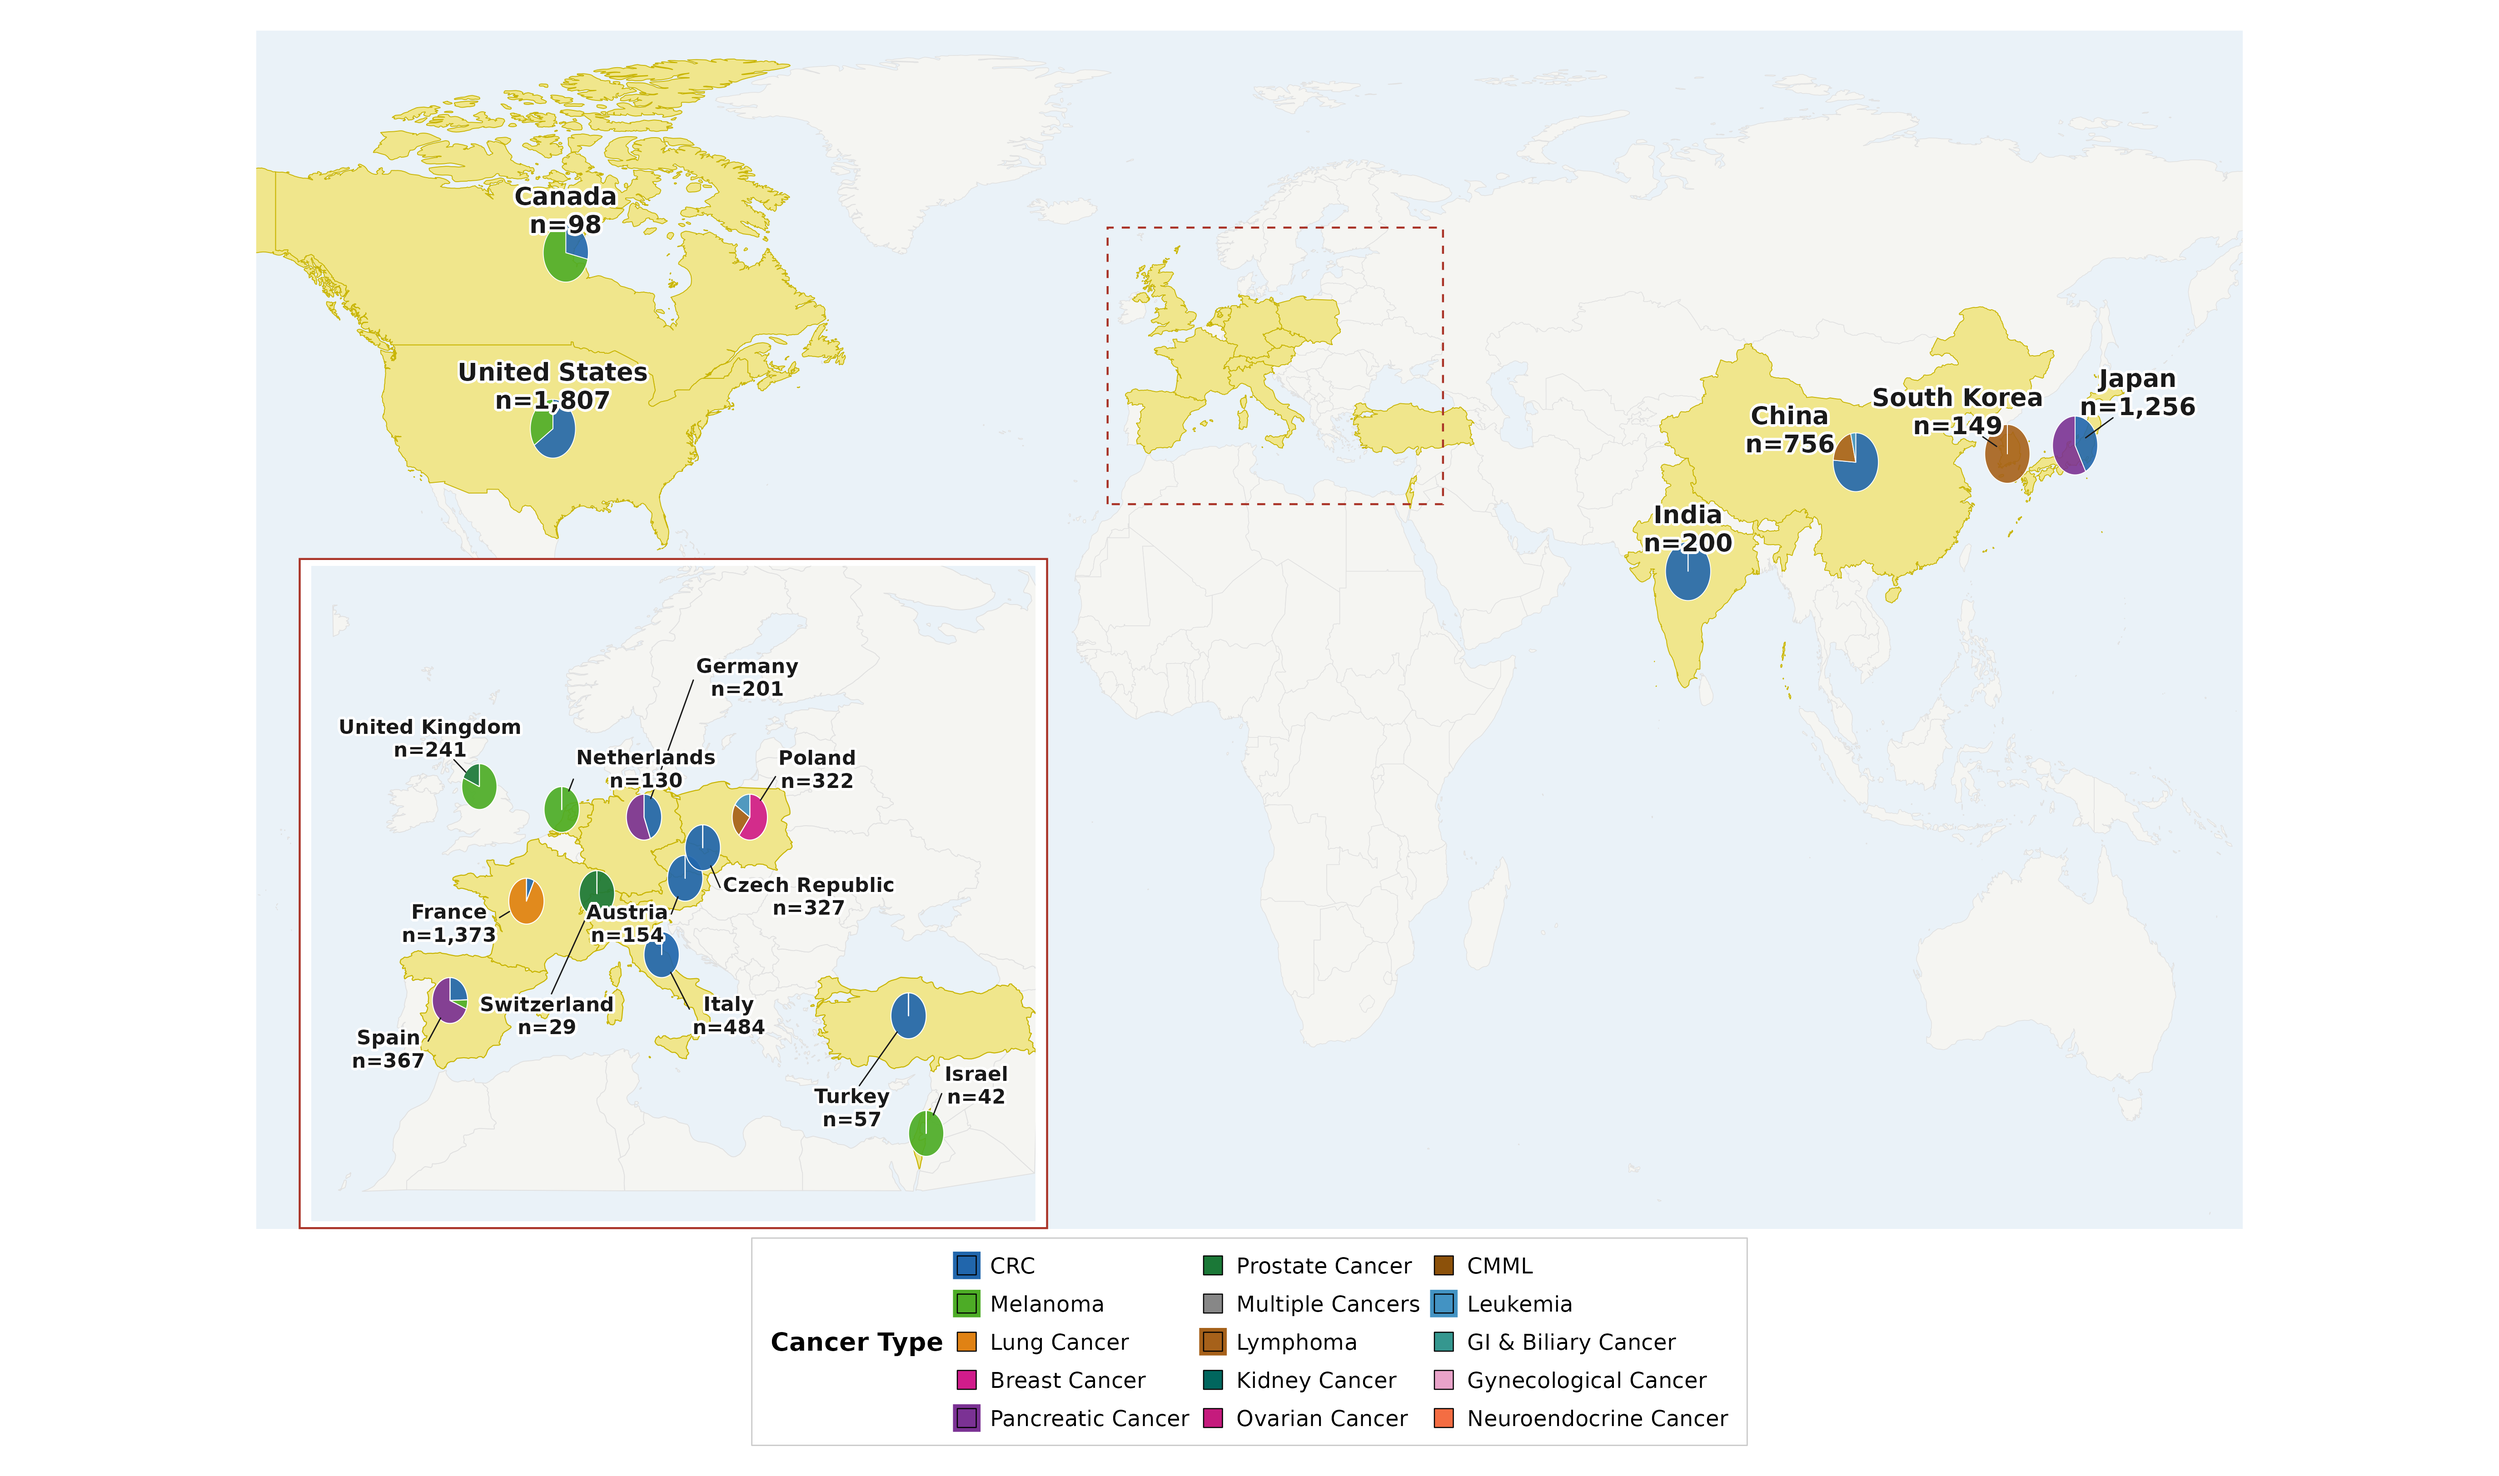
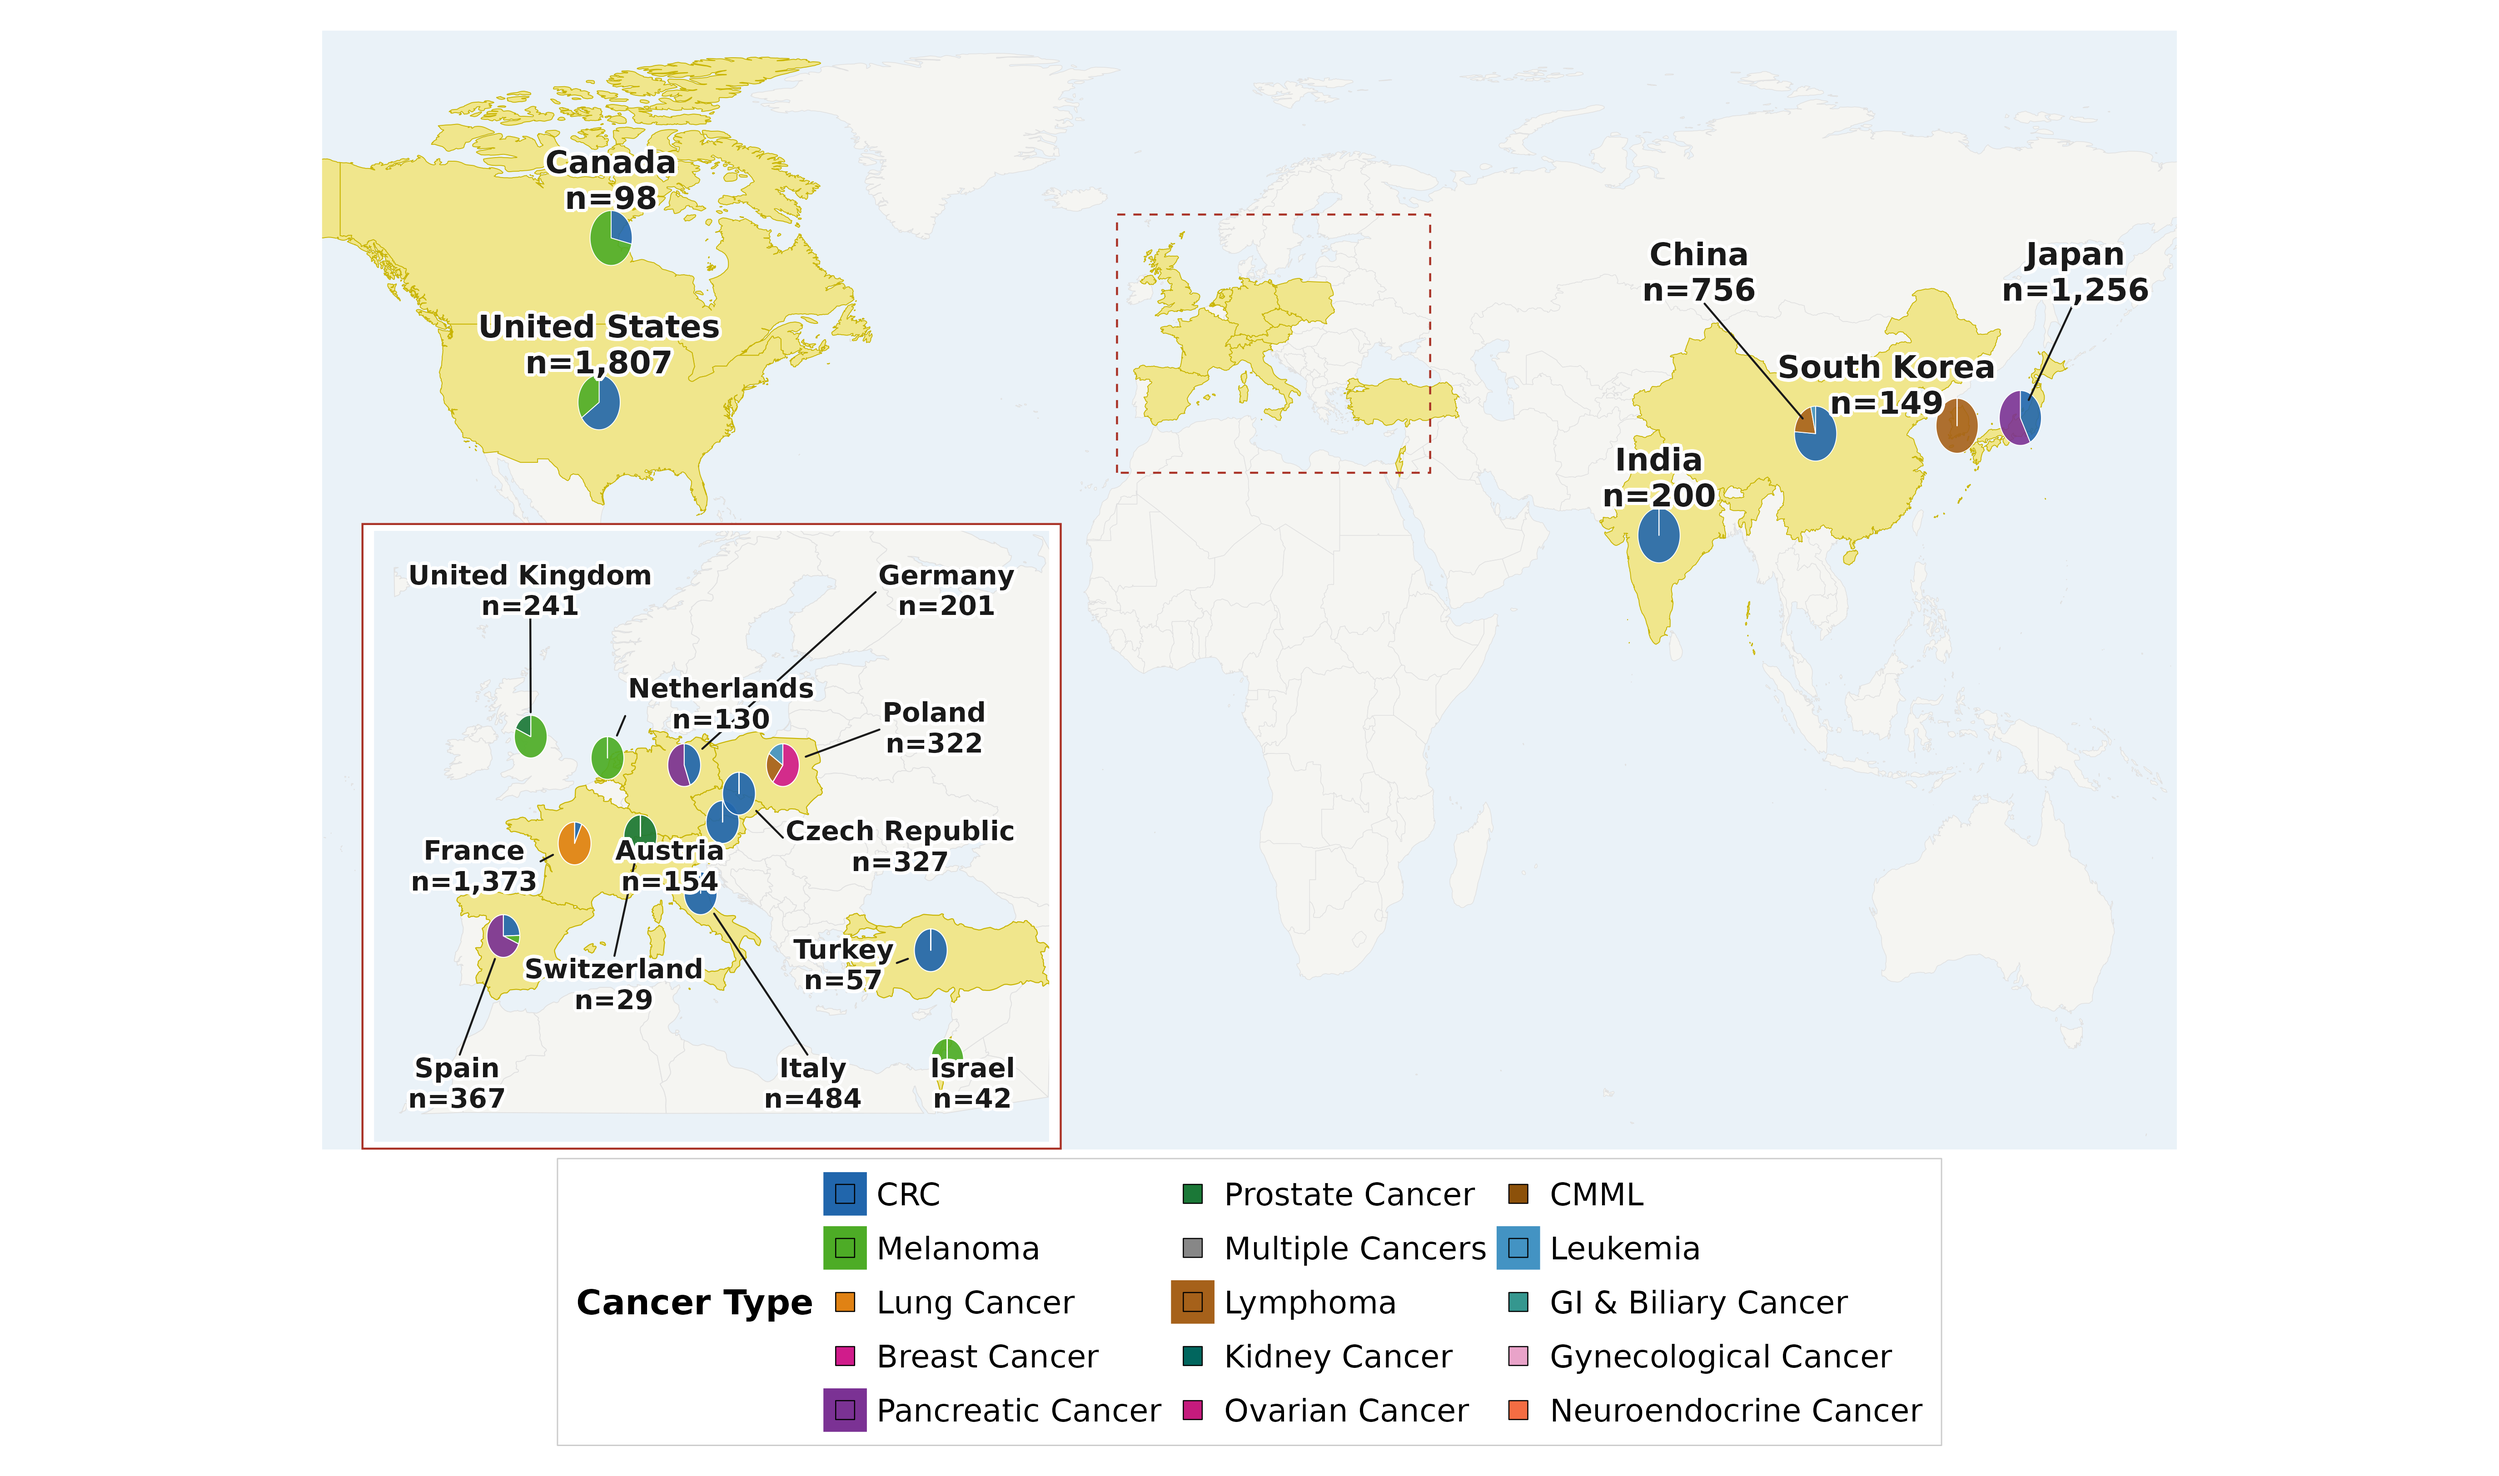
Publication quality figures - larger everything

diff --git a/stylesheets/extra.css b/stylesheets/extra.css
@@ -1,10 +1,20 @@
-/* Make Fig1 global map display full width */
 img[alt="Global map"] {
     width: 100%;
     max-width: 100%;
+    height: auto;
 }
-
 img[alt="Cancer types"] {
     width: 100%;
     max-width: 100%;
+    height: auto;
+}
+img[alt="Age distribution"] {
+    width: 80%;
+    max-width: 100%;
+    height: auto;
+}
+img[alt="BMI distribution"] {
+    width: 80%;
+    max-width: 100%;
+    height: auto;
 }

diff --git a/index.html b/index.html
@@ -459,7 +459,7 @@
 
 
 <h1 id="curatedmetagenomicdata-cancer-datasets-overview">curatedMetagenomicData -- Cancer Datasets Overview</h1>
-<p><em>Last updated: 2026-08-07 09:57 UTC</em></p>
+<p><em>Last updated: 2026-08-07 10:00 UTC</em></p>
 <h2 id="summary">Summary</h2>
 <table>
 <thead>
